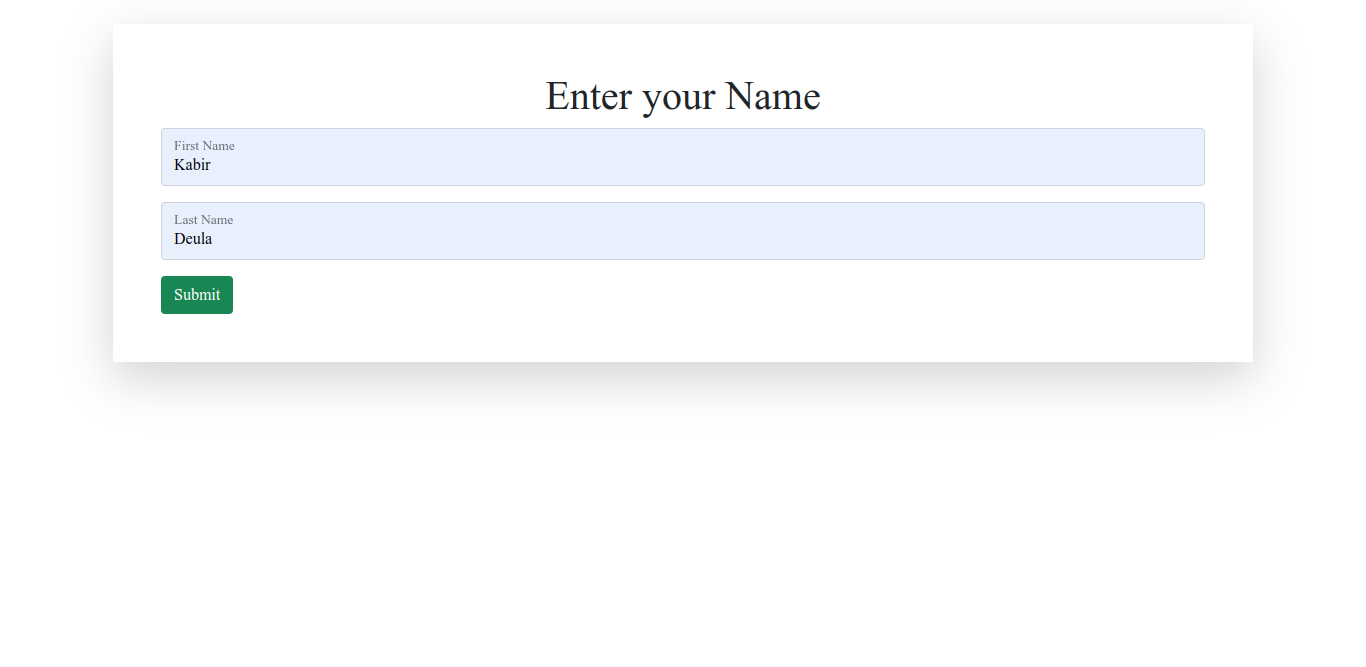
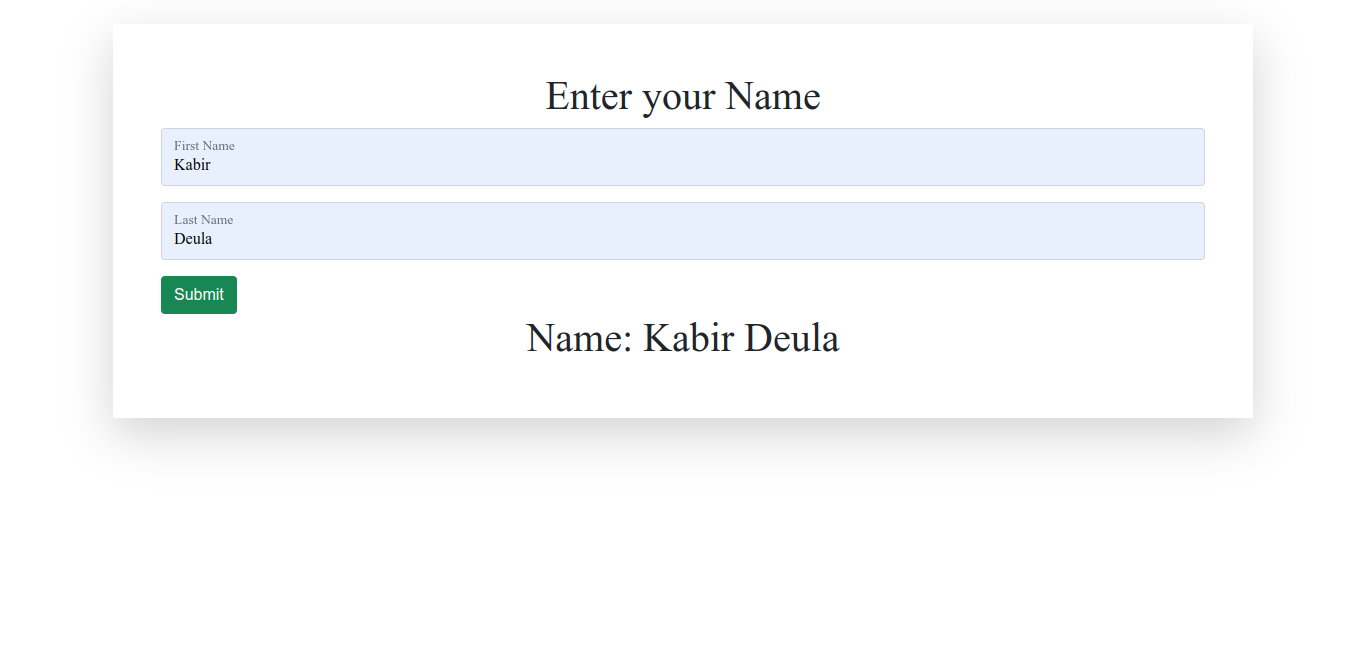
updated lab 1

Changed region(s): [[0.0922, 0.4798, 0.9224, 0.5697], [0.0922, 0.6297, 0.8917, 0.6597], [0.123, 0.4198, 0.1845, 0.4498]]

diff --git a/src/Lab Report 01/index.html b/src/Lab Report 01/index.html
@@ -22,8 +22,9 @@
                 <input type="text" name="lName" id="lName" class="form-control" placeholder="Enter your Last Name">
                 <label>Last Name</label>
             </div>
-            <input type="submit" onclick="getName()" value="Submit" class="btn btn-success mt-3">
+            <button class="btn btn-success mt-3" onclick="getName()">Submit</button>
         </form>
+        <p id="output" class="h1 text-center"></p>
     </div>
 </body>
 

diff --git a/src/Lab Report 01/app.js b/src/Lab Report 01/app.js
@@ -1,9 +1,7 @@
 function getName() {
-    let x = document.getElementById("form");
-    for (let i in x) {
-        if (x.elements[i].value != 'Submit') {
-            console.log(x.elements[i].value);
-        }
-    }
-    return false;
+    let x = document.getElementById("fName").value;
+    let y = document.getElementById("lName").value;
+
+    document.getElementById("output").innerHTML = "Name: " + x + ' ' + y;
+    return false
 }
